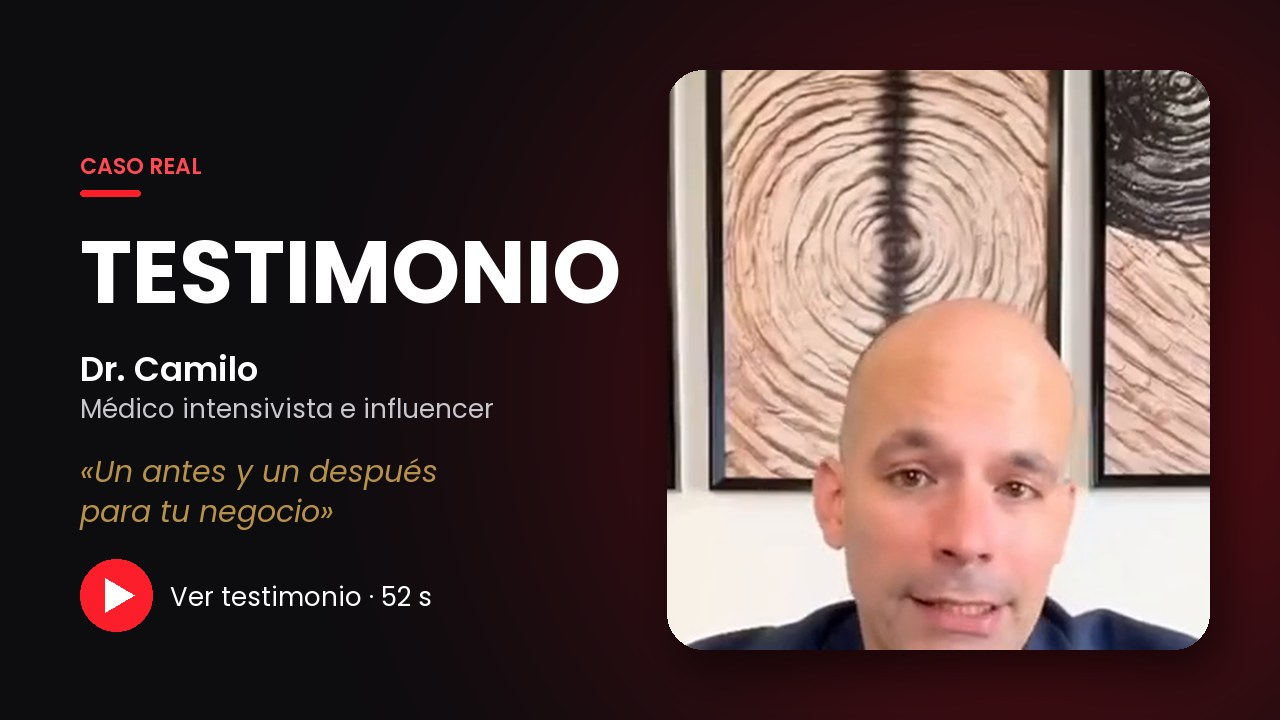
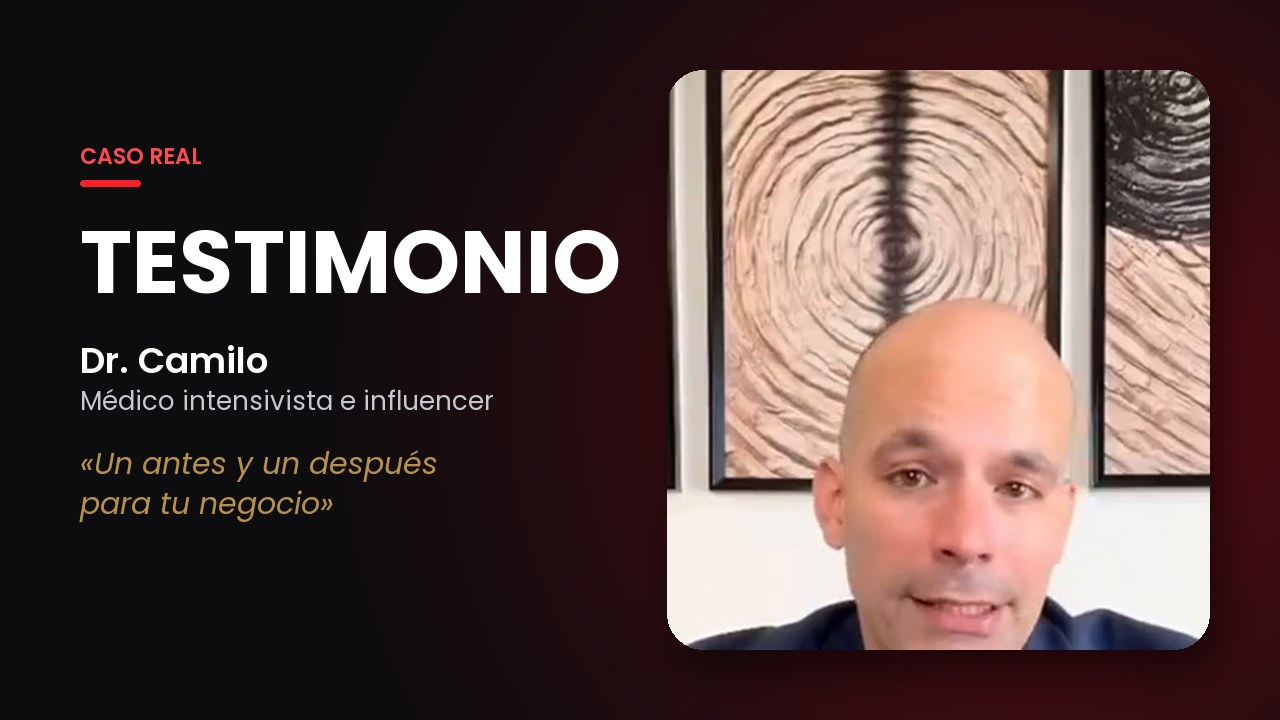
Correcciones de la revisión: módulos de ALMA numerados con su letra, gracias neutro, USD preselecciona 'Otro país', portada del testimonio sin play dibujado, poster del video de ALMA

diff --git a/src/app/(workshop)/workshop/gracias/page.tsx b/src/app/(workshop)/workshop/gracias/page.tsx
@@ -65,7 +65,7 @@ export default async function GraciasWorkshop({ searchParams }: Props) {
         <span className="ws-espera" aria-hidden="true" />
         <h1 className="lp-h2">Estamos confirmando tu pago</h1>
         <p className="lp-lead">Bold está procesando el pago. Apenas se confirme, te llega el acceso a <strong>{ocultar(email)}</strong>. Esta página se actualiza sola.</p>
-        <p className="muted small">Con PSE la confirmación puede tardar unos minutos. Puedes cerrar esta página: el acceso te llega igual al correo.</p>
+        <p className="muted small">Si pagaste con PSE, la confirmación puede tardar unos minutos. Puedes cerrar esta página: el acceso te llega igual al correo.</p>
       </main>
     );
   }
@@ -74,9 +74,12 @@ export default async function GraciasWorkshop({ searchParams }: Props) {
     <main className="typ">
       {/* eslint-disable-next-line @next/next/no-img-element */}
       <img src="/logo-3d.png" alt="Conexión" className="embudo-logo" />
-      <h1 className="lp-h2">Gracias por tu compra</h1>
-      <p className="lp-lead">Cuando Bold confirme el pago, te llega tu usuario y tu contraseña al correo que registraste.</p>
-      <Link href="/curso/login" className="btn btn-big">Entrar a mi curso</Link>
+      <h1 className="lp-h2">¿Ya compraste ALMA?</h1>
+      <p className="lp-lead">Si ya pagaste, tu usuario y tu contraseña llegan al correo que registraste. Si todavía no, puedes entrar desde aquí.</p>
+      <div className="row" style={{ justifyContent: "center" }}>
+        <Link href="/curso/login" className="btn btn-big">Entrar a mi curso</Link>
+        <Link href="/workshop/comprar" className="btn ghost-btn">Comprar ALMA</Link>
+      </div>
     </main>
   );
 }

diff --git a/src/app/(workshop)/workshop/comprar/page.tsx b/src/app/(workshop)/workshop/comprar/page.tsx
@@ -23,7 +23,7 @@ export default async function ComprarPage({ searchParams }: Props) {
       <p className="eyebrow">Último paso</p>
       <h1 className="embudo-h1">Entra a <em>{t?.curso.titulo || WORKSHOP.nombre}</em></h1>
       <p className="embudo-lead">Déjanos tus datos para crear tu acceso. Después pagas en Bold y te llega el usuario y la contraseña a tu correo.</p>
-      {t ? <ComprarForm cop={cop} usd={usd} paises={WORKSHOP.paises} inicial={moneda === "USD" ? "" : "Colombia"} notaCop={WORKSHOP.notaCop} /> : <div className="alert error">El workshop no está disponible en este momento.</div>}
+      {t ? <ComprarForm cop={cop} usd={usd} paises={WORKSHOP.paises} inicial={moneda === "USD" ? "Otro país" : "Colombia"} notaCop={WORKSHOP.notaCop} /> : <div className="alert error">El workshop no está disponible en este momento.</div>}
       <p className="muted small">{WORKSHOP.garantia} Pago único · {WORKSHOP.marca}</p>
     </main>
   );

diff --git a/src/app/(workshop)/workshop/page.tsx b/src/app/(workshop)/workshop/page.tsx
@@ -79,9 +79,9 @@ export default async function WorkshopPage() {
           <ol className="ws-modulos">
             {modulos.map((m, i) => (
               <li key={m.id}>
-                <span className={`ws-num${m.letra ? " con-letra" : ""}`}>{m.letra ?? i + 1}</span>
+                <span className="ws-num">{i + 1}</span>
                 <div>
-                  <strong>{m.titulo}</strong>
+                  <strong>{m.letra && <span className="ws-letra-mini" aria-label={`Letra ${m.letra} de ALMA`}>{m.letra}</span>}{m.titulo}</strong>
                   {m.descripcion && <p>{m.descripcion}</p>}
                   {m.lecciones.length > 0 && <span className="muted small">{m.lecciones.length} {m.lecciones.length === 1 ? "lección" : "lecciones"}</span>}
                 </div>

diff --git a/src/app/globals.css b/src/app/globals.css
@@ -993,3 +993,5 @@ label.ws-check { flex-direction: row; align-items: center; gap: 8px; font-size: 
 .lh-medios:hover .lh-cinta, .lh-medios:focus-within .lh-cinta, .lh-medios:active .lh-cinta { animation-play-state: paused; }
 @keyframes lh-derecha { from { transform: translateX(calc(-50% - 5px)); } to { transform: translateX(0); } }
 @media (prefers-reduced-motion: reduce) { .lh-medios { overflow-x: auto; } .lh-cinta { animation: none; } }
+
+.ws-letra-mini { display: inline-grid; place-items: center; width: 22px; height: 22px; margin-right: 8px; border-radius: 6px; background: #0d0d0f; color: #fff; font-size: 12px; font-weight: 700; vertical-align: 2px; }

diff --git a/src/lib/workshop.ts b/src/lib/workshop.ts
@@ -62,7 +62,7 @@ export const WORKSHOP = {
 
   // ── La solución ──
   solucion: {
-    titulo: "ALMA es ese orden, en cuatro letras.",
+    titulo: "ALMA son las cuatro piezas que vas a construir.",
     letras: [
       ["A", "de Arquetipo", "Descubres qué tipo de marca eres y qué contenido te toca hacer."],
       ["L", "de Landing", "Creas con Claude tu propia página y la publicas con tu link."],
